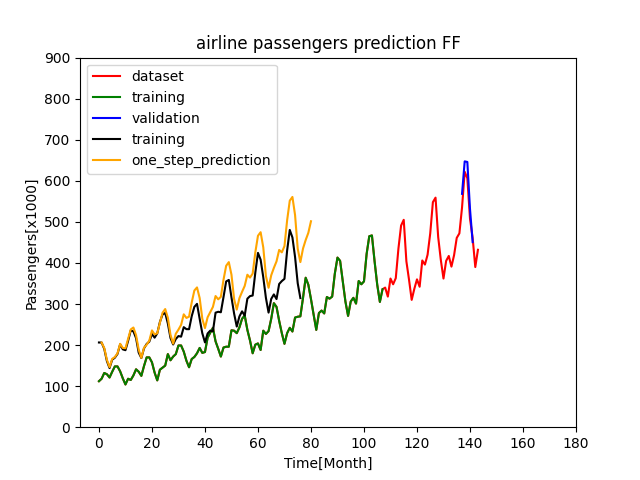
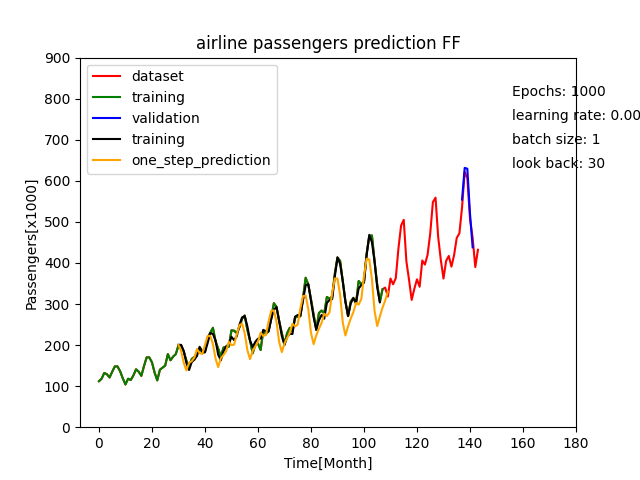
set index for traning and forecasting correct, add model informations to plot

diff --git a/TimeSeriesPrediction/UnivariatTimeSeriesForecast/AirlinePassengers/Keras/FF/airline_passengers_keras_ff.py b/TimeSeriesPrediction/UnivariatTimeSeriesForecast/AirlinePassengers/Keras/FF/airline_passengers_keras_ff.py
@@ -31,6 +31,7 @@ def main():
     training_results = validation_forecast(model, train_inputs)
     training = pd.DataFrame()
     training["training"] = training_results
+    training.index += LOOK_BACK
 
     start_index = PREDICTION_START
     start_value = train_inputs[start_index]
@@ -40,7 +41,7 @@ def main():
 
     prediction = pd.DataFrame()
     prediction["one_step_prediction"] = prediction_results
-    prediction.index += start_index
+    prediction.index += LOOK_BACK
 
     plt.plot(airline_passengers.data["Passengers"], color="red", label="dataset")
     plt.plot(airline_passengers.get_train_data(), color="green", label="training")
@@ -53,6 +54,13 @@ def main():
     plt.xticks(range(0, 200, 20))
     plt.yticks(range(0, 1000, 100))
     plt.legend(loc="upper left")
+
+    plt.figtext(0.8, 0.8, f"Epochs: {EPOCHS}")
+    plt.figtext(0.8, 0.75, f"learning rate: {LEARNING_RATE}")
+    plt.figtext(0.8, 0.70, f"batch size: {BATCH_SIZE}")
+    plt.figtext(0.8, 0.65, f"look back: {LOOK_BACK}")
+
+
     plt.savefig("./airlinePassengers_keras_ff.png")
     plt.show()
 
